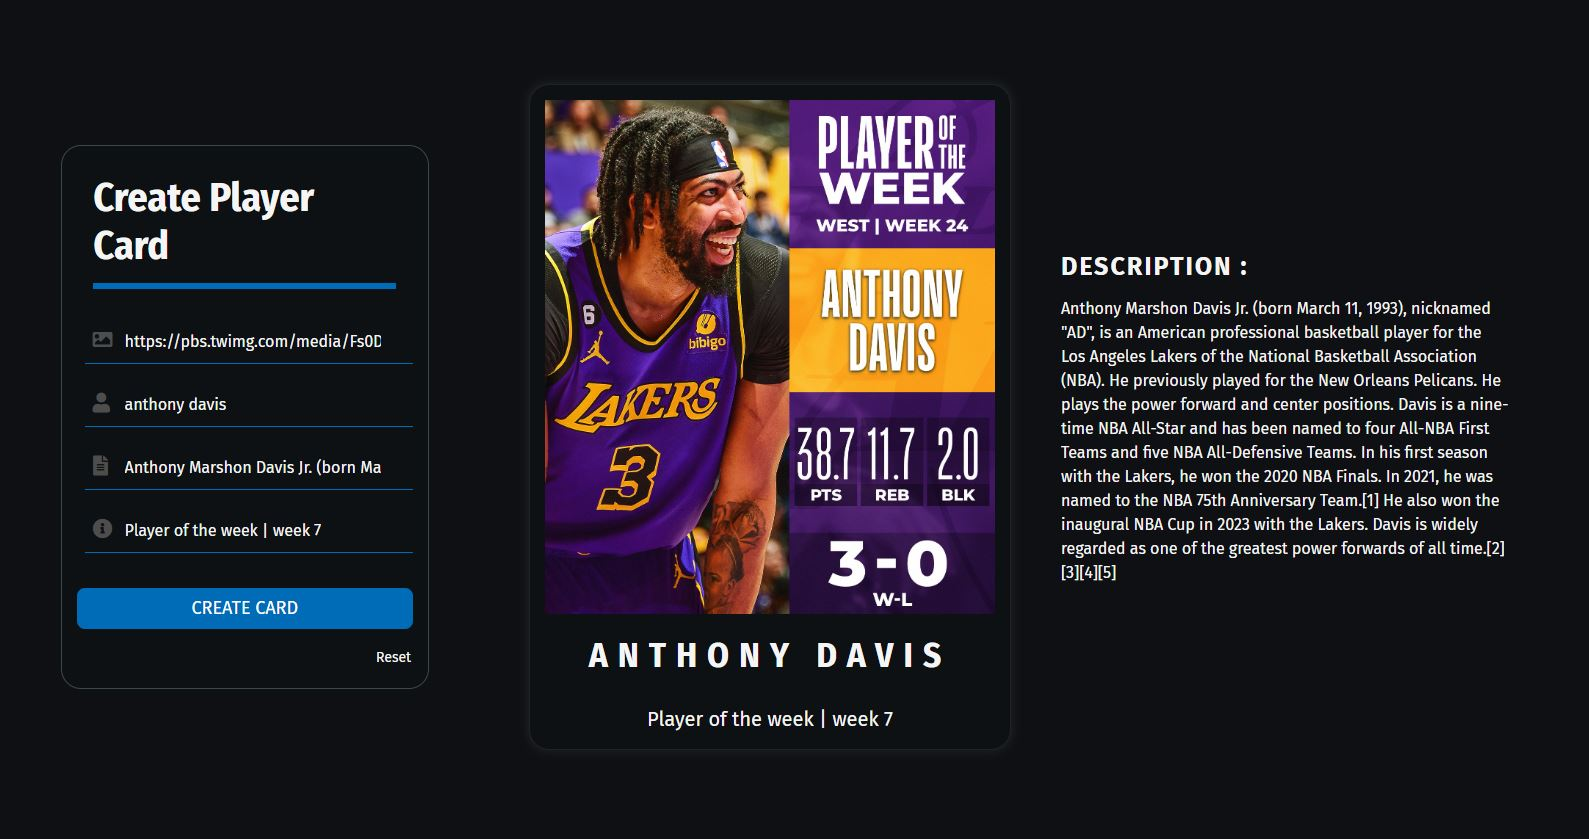
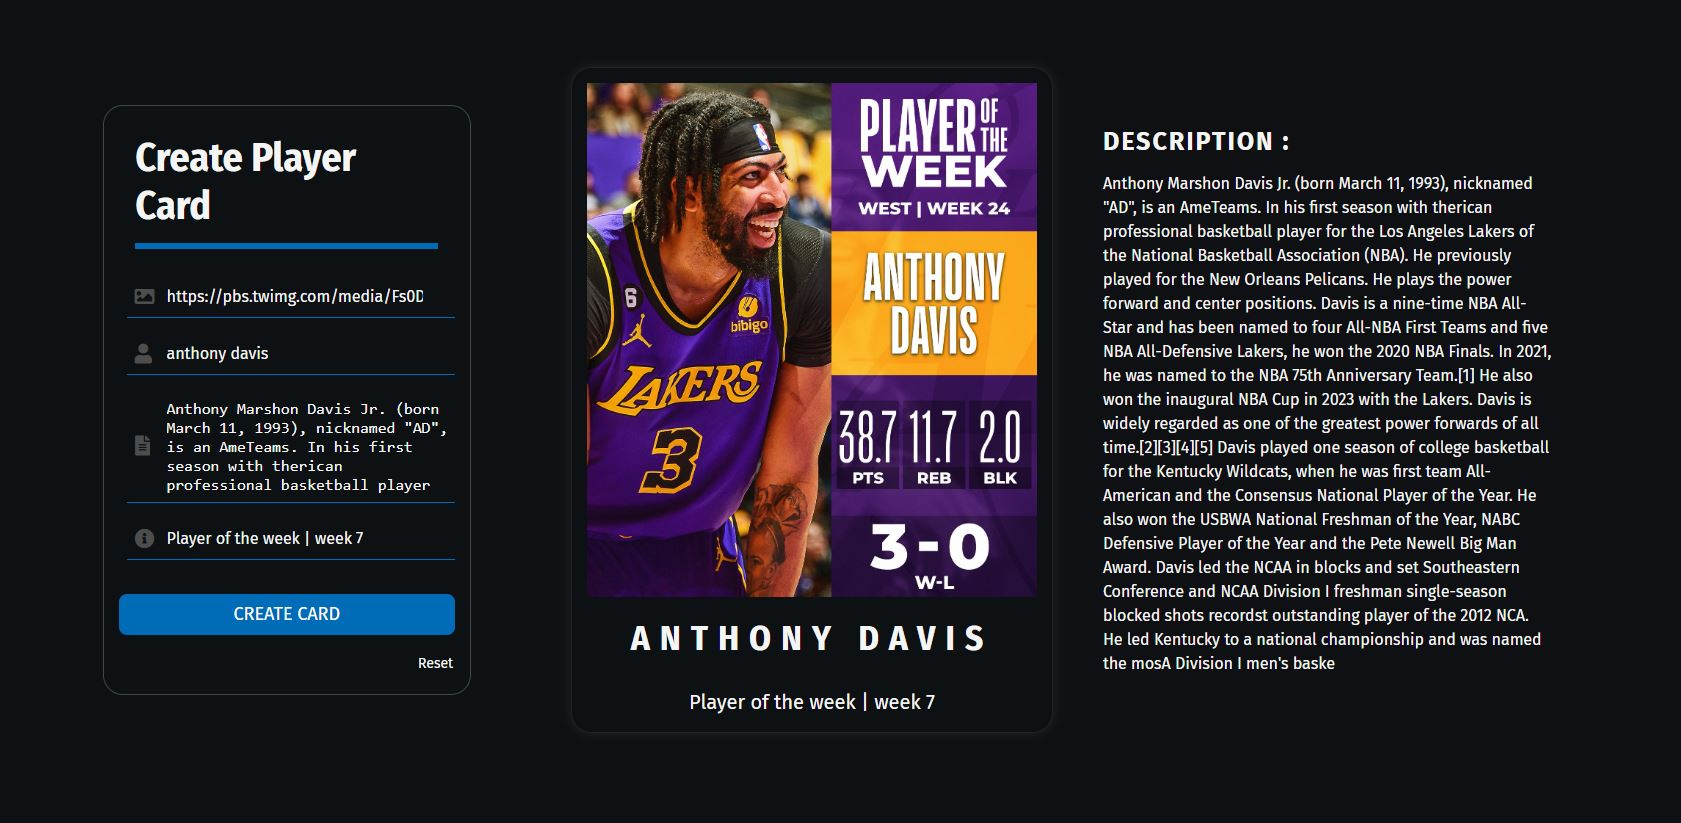
description as a textarea

diff --git a/src/components/Cards/CardCreate.jsx b/src/components/Cards/CardCreate.jsx
@@ -81,7 +81,7 @@ export default function CardCreate() {
         }
     }, [isSubmitting]);
 
-    const handleCreateMessage = isSubmitting == true ? "CREATING CARD..." : "CREATE CARD";
+    const handleCreatingMessage = isSubmitting ? "CREATING CARD..." : "CREATE CARD";
 
     return (
         <div className={`${isAnyFieldNotEmpty(formData) ? styles.container : styles.centeredContainer}`}>
@@ -92,24 +92,35 @@ export default function CardCreate() {
 
                 <div className={styles.modalTextbox}>
                     <i className="fas fa-image"></i>
-                    <input type="text" id="cardImage" name="urlFront" value={formData.urlFront} onChange={handleChange} placeholder="Front Image URL" />
+                    <input type="text" id="cardImage" name="urlFront" value={formData.urlFront} onChange={handleChange} placeholder="Front Image URL" required />
                 </div>
                 <div className={styles.modalTextbox}>
                     <i className="fas fa-user"></i>
-                    <input type="text" id="cardPlayerName" name="playerName" value={formData.playerName} onChange={handleChange} placeholder="Player Name" />
+                    <input type="text" id="cardPlayerName" name="playerName" value={formData.playerName} onChange={handleChange} placeholder="Player Name" required />
                 </div>
                 <div className={styles.modalTextbox}>
                     <i className="fas fa-file-alt"></i>
-                    <input type="text" id="cardDescription" name="description" value={formData.description} onChange={handleChange} placeholder="Description" />
+                    <textarea
+                        id="cardDescription"
+                        maxLength={1200}
+                        rows={5}
+                        cols={30}
+                        name="description"
+                        value={formData.description}
+                        onChange={handleChange}
+                        placeholder="Description"
+                        aria-label="Card Description"
+                        required
+                    />
                 </div>
                 <div className={styles.modalTextbox}>
                     <i className="fas fa-info-circle"></i>
-                    <input type="text" id="cardShortInfo" name="shortInfo" value={formData.shortInfo} onChange={handleChange} placeholder="Short info" />
+                    <input type="text" id="cardShortInfo" name="shortInfo" value={formData.shortInfo} onChange={handleChange} placeholder="Short info" required />
                 </div>
 
                 {error && <div className={styles.errorMessage}>{error}</div>}
 
-                <button className={styles.createBtn} type="submit">{handleCreateMessage}
+                <button className={styles.createBtn} type="submit">{handleCreatingMessage}
                 </button>
 
                 <p className={styles.forgot} onClick={handleResetForm}>Reset</p>

diff --git a/public/assets/css/modules/_CreateCard.module.scss b/public/assets/css/modules/_CreateCard.module.scss
@@ -129,12 +129,30 @@
   padding: 13px 0;
   width: 90%;
 }
+
 .modal-textbox {
+  display: flex;
+  align-items: center;
   background-color: #0e1113;
   font-size: 20px;
   padding: 8px 0 8px 8px;
   margin: 8px 0 8px 8px;
   border-bottom: 1px solid getColor(nba-p);
+}
+
+.modal-textbox textarea {
+  flex: 1;
+  background: none;
+  border: none;
+  outline: none;
+  resize: none;
+  font-size: 16px;
+  color: whitesmoke;
+}
+
+textarea {
+  scrollbar-width: none;
+  scrollbar-color: #6c6c6c #2e2e2e;
 }
 
 i {
